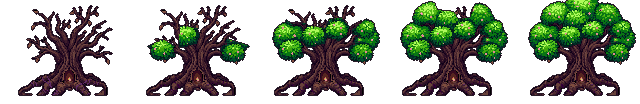
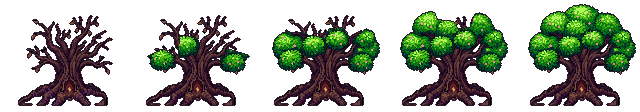
큰 나무 칸 104 → 112(다 핀 나무 꼭대기가 칸에 잘리던 것), 밑동 96
Claude-Session: https://claude.ai/code/session_01VNXEyeHwdhsn4oiHYXtNpM

diff --git a/tools/art/tree_ai.py b/tools/art/tree_ai.py
@@ -28,7 +28,7 @@ HALF = 512          # 왼쪽 시든 나무 | 오른쪽 다 핀 나무
 CUT = 452           # 이 줄 아래(벼랑 앞면)는 버린다
 BASE_SRC = 418      # 원본에서 밑동(구멍 아래) 줄
 HEIGHT = 100        # 줄인 나무 키(잎 꼭대기 ~ 자른 줄)
-W, H = 128, 104
+W, H = 128, 112
 CLUMPS = 12
 STAGE_CLUMPS = [0, 3, 7, 10, 12]
 NCOL = 32           # 나무는 갈색·초록·분홍·보라·빛 — 20색으로는 잎의 밝은 단이 빠졌다
@@ -203,7 +203,7 @@ def _build(img, dead, live, dk, cm, clump, clean, stages, top):
     return sheet
 
 
-BASE = 86           # 칸 위에서 밑동 줄
+BASE = 96           # 칸 위에서 밑동 줄(잎 꼭대기가 칸 위 끝에 닿지 않게 — 86이면 다 핀 나무가 6px 잘렸다)
 
 
 def threads_back(sp, a, k, x0, x1):

diff --git a/src/art.rs b/src/art.rs
@@ -166,8 +166,8 @@ pub const HUB_GATE: u32 = 5;
 
 /// 큰 나무 칸(tree.png, 0238): 잎 단계 0~4 다섯 칸 한 줄. 밑동(줄기 아래 가운데)이 칸의 (W/2, `TREE_BASE`).
 pub const TREE_W: f32 = 128.0;
-pub const TREE_H: f32 = 104.0;
-pub const TREE_BASE: f32 = 86.0;
+pub const TREE_H: f32 = 112.0;
+pub const TREE_BASE: f32 = 96.0;
 
 /// 큰 나무 잎 단계 `growth`(0~4)를 밑동 `base`에 그린다.
 pub fn draw_tree(tex: &Texture2D, growth: u8, base: Vec2) {

diff --git a/tools/art/check_rebuild.py b/tools/art/check_rebuild.py
@@ -29,7 +29,7 @@ SINGLE = [
     ("halmae_ai", None, "halmae.png", 40),
     ("props_ai", None, "props.png", 24),
     ("hub_ai", None, "hub.png", 48),
-    ("tree_ai", None, "tree.png", 104),
+    ("tree_ai", None, "tree.png", 112),
 ]
 
 

diff --git a/docs/decisions/0238-redo-nail-kongi-great-tree.md b/docs/decisions/0238-redo-nail-kongi-great-tree.md
@@ -26,7 +26,7 @@
 - **2단계**: Naïl 시트 둘(`nail_v3_a`·`nail_v3_b`), 콩이 한 장(`kongi_v2`, 걷기 넷·공 둘 포함).
 - **Naïl**: 칸 24 → **28**, 키 18 → **약 22px**(모모 23·도토 25와 나란히 — "명색이 주인공인데"의 한 까닭이 가장 작은 키였다). `art::NAIL_CELL` 28·`NAIL_FOOT` 26. 원본 손발이 이미 분홍·크림이라 `Limbs`·`swing`·눈 맞추기는 뺐다. 털은 붉은 자줏빛 갈색이라 `sprite_ai.is_fur`의 색상 범위를 넓혔다(0.93~1 포함, 채도 0.5 미만 — 목도리 주황은 빠진다). 강타 들기 칸은 몸을 크게 그려 온 칸 대신 머리 높이로 든 칸.
 - **콩이**: 키 약 22px(Naïl보다 조금 크게, 길의 주인), 공 지름 약 18px. 몸 안 선이 순검정으로 와 외곽선 색으로. 물든 모습은 살갗·등딱지가 같은 모래색이라 색으로 가를 수 없어 거의 다 푸른 회색 + 분홍 귀·코만 모브(얼굴이 덜 갈린다 — 사람 판정).
-- **큰 나무**: `tools/art/tree_ai.py` → `assets/art/tree.png`(128×104 다섯 칸). 두 장의 줄기가 달라(프롬프트를 지키지 않았다) 줄기·뿌리·빛나는 구멍은 시든 나무 하나, 잎은 다 핀 나무에서 초록 점 k-평균 12덩어리로 잘라 아래부터 3·7·10·12개. 보라 실은 단계 0에만(가는 실은 다수결로 사라져 원본 실 자리를 다시 칠한다). 벼랑은 잘라 마을 지도의 둔덕(###Y###) 위에 뿌리를 얹는다. 32색(불빛·실·꽃은 드물어 색표에 따로 넣는다). 마을 지도 위에 벽 두 줄을 더해 잎이 잘리지 않게. 옛 그리기(팩 잎·코드 줄기)는 그림이 없을 때만.
+- **큰 나무**: `tools/art/tree_ai.py` → `assets/art/tree.png`(128×112 다섯 칸). 두 장의 줄기가 달라(프롬프트를 지키지 않았다) 줄기·뿌리·빛나는 구멍은 시든 나무 하나, 잎은 다 핀 나무에서 초록 점 k-평균 12덩어리로 잘라 아래부터 3·7·10·12개. 보라 실은 단계 0에만(가는 실은 다수결로 사라져 원본 실 자리를 다시 칠한다). 벼랑은 잘라 마을 지도의 둔덕(###Y###) 위에 뿌리를 얹는다. 32색(불빛·실·꽃은 드물어 색표에 따로 넣는다). 마을 지도 위에 벽 두 줄을 더해 잎이 잘리지 않게. 옛 그리기(팩 잎·코드 줄기)는 그림이 없을 때만.
 - 재현 검사(`check_rebuild.py`)에 `tree.png`도. 나무 변환기의 32색은 공용 전역을 잠깐 바꾸고 되돌린다(안 되돌리면 같은 프로세스의 다른 시트 11장이 달라졌다).
 
 ## 남은 것
